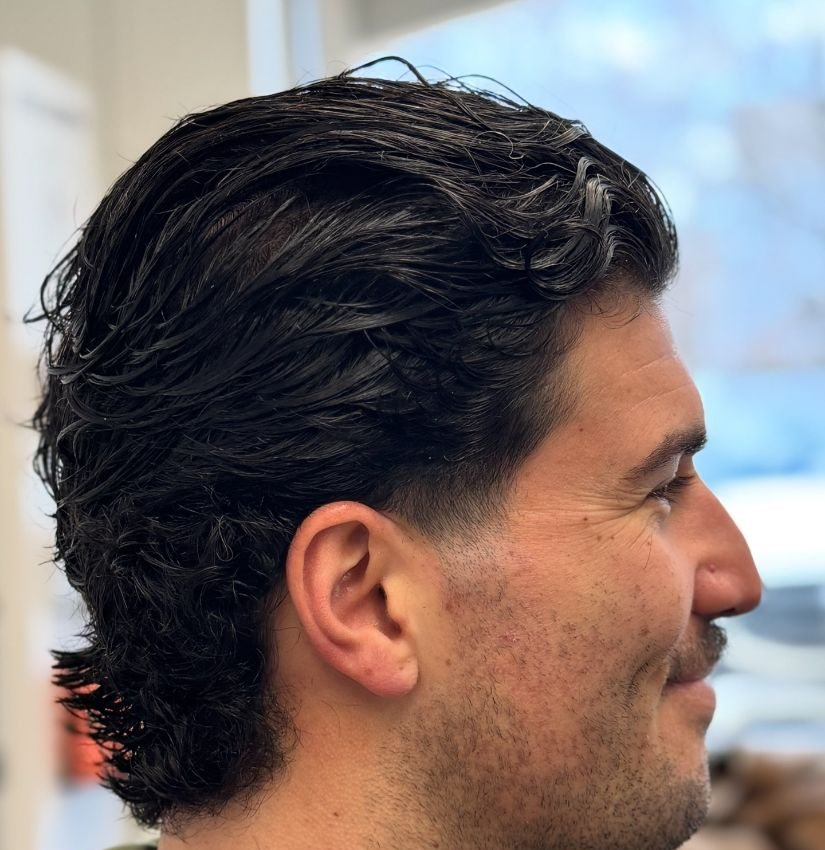
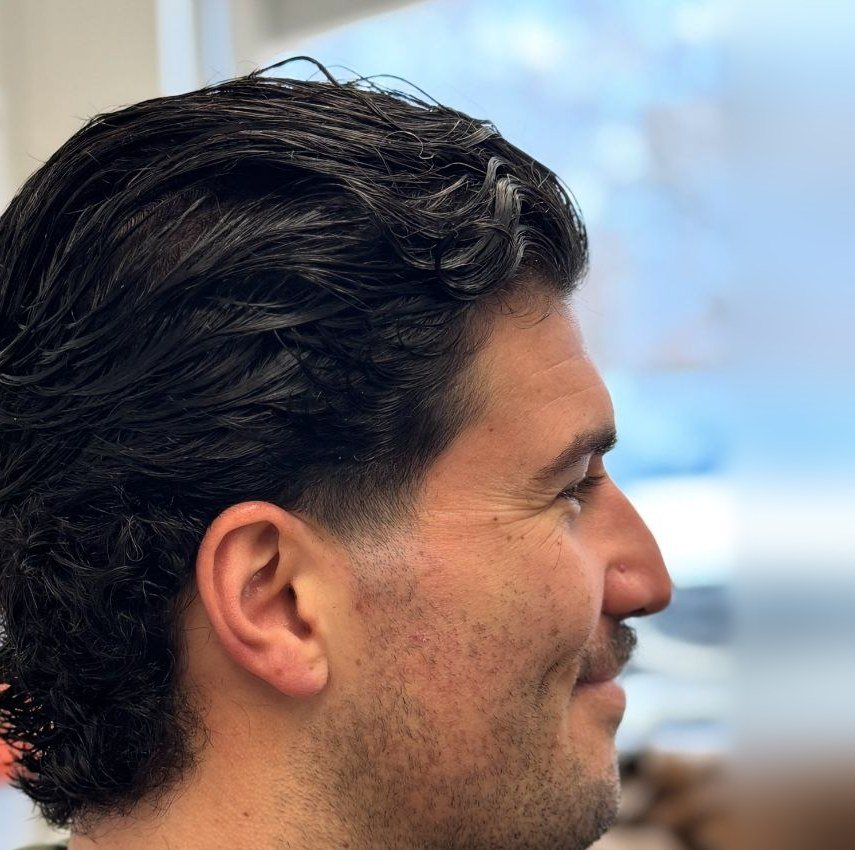
Recenter gallery photos three and four
Claude-Session: https://claude.ai/code/session_01QEBK6Qnz19RuPp24x5TGdt

diff --git a/index.html b/index.html
@@ -281,8 +281,8 @@ footer .wrap { align-items: center;  display: flex; flex-wrap: wrap; gap: 10px 3
     <div class="shots">
       <figure><img src="work/texture.jpg" alt="Men's textured cut with movement on top and a soft taper" width="1100" height="1100" loading="lazy"></figure>
       <figure><img src="work/scissor.jpg" alt="All-scissor layered men's cut with natural movement" width="1100" height="1098" loading="lazy"></figure>
-      <figure><img src="work/beyond.jpg" alt="Profile of a tailored men's cut with length left at the back" width="825" height="850" loading="lazy"></figure>
-      <figure><img src="work/fade.jpg" style="object-position: 50% 15%" alt="Profile of a short men's cut with a skin fade and textured top" width="796" height="1100" loading="lazy"></figure>
+      <figure><img src="work/beyond.jpg" alt="Profile of a tailored men's cut with length left at the back" width="855" height="850" loading="lazy"></figure>
+      <figure><img src="work/fade.jpg" alt="Profile of a short men's cut with a skin fade and textured top" width="1100" height="1094" loading="lazy"></figure>
     </div>
     <a class="ig" href="https://www.instagram.com/salonpolo/" target="_blank" rel="noopener">See more on Instagram · @salonpolo</a>
   </div>
